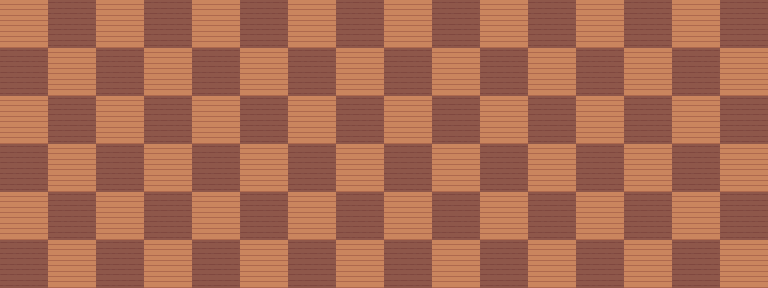
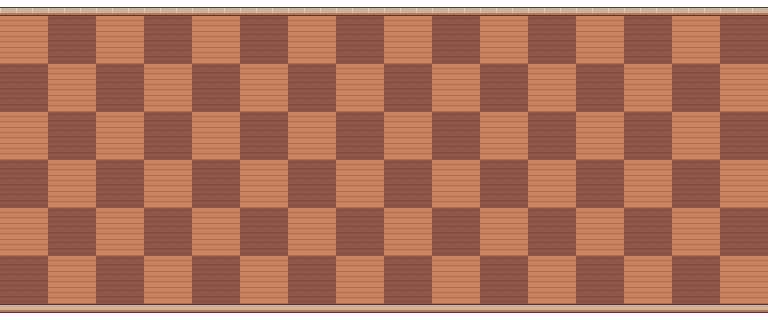
Graphics & components update

diff --git a/src/components/game/sprites/human/human-village.tsx b/src/components/game/sprites/human/human-village.tsx
@@ -2,6 +2,7 @@ import { villageHeight, villageWidth } from "@/game/assets";
 import { Assets, Texture } from "pixi.js";
 import { useEffect, useState } from "react";
 import type { VillageBuildings } from "../../types/village-buildings";
+import { HumanGoldMine } from "./human-gold-mine";
 import { HumanTownhall } from "./human-townhall";
 
 export const HumanVillage = ({
@@ -10,14 +11,19 @@ export const HumanVillage = ({
   buildings,
 }: { x: number; y: number; buildings: VillageBuildings }) => {
   const [bgTexture, setBgTexture] = useState(Texture.EMPTY);
+  const [fenceTexture, setFenceTexture] = useState(Texture.EMPTY);
 
   useEffect(() => {
-    Promise.all([Assets.load<Texture>("/assets/Human_village.png")]).then(
-      ([bg]) => {
-        setBgTexture(bg);
-      },
-    );
-  }, []);
+    Promise.all([
+      Assets.load<Texture>("/assets/human/Human_village__Ground.png"),
+      Assets.load<Texture>(
+        `/assets/human/fence/Human_village__Fence_lv${buildings.townHall.lvl}.png`,
+      ),
+    ]).then(([bg, fence]) => {
+      setBgTexture(bg);
+      setFenceTexture(fence);
+    });
+  }, [buildings.townHall.lvl]);
 
   return (
     <>
@@ -28,8 +34,49 @@ export const HumanVillage = ({
         width={villageWidth}
         height={villageHeight}
       />
+      <pixiSprite
+        texture={fenceTexture}
+        x={x}
+        y={y}
+        width={villageWidth}
+        height={villageHeight}
+      />
 
-      <HumanTownhall x={x + 290} y={y + 190} lvl={buildings.townHall.lvl} />
+      <HumanGoldMine
+        x={x + 125}
+        y={y + 180}
+        lvl={buildings.goldMines.gm1.lvl}
+      />
+      {buildings.goldMines.gm2 && (
+        <HumanGoldMine
+          x={x + 125}
+          y={y + 50}
+          lvl={buildings.goldMines.gm2.lvl}
+        />
+      )}
+      {buildings.goldMines.gm3 && (
+        <HumanGoldMine
+          x={x + 125}
+          y={y + 310}
+          lvl={buildings.goldMines.gm3.lvl}
+        />
+      )}
+      {buildings.goldMines.gm4 && (
+        <HumanGoldMine
+          x={x + 10}
+          y={y + 120}
+          lvl={buildings.goldMines.gm4.lvl}
+        />
+      )}
+      {buildings.goldMines.gm5 && (
+        <HumanGoldMine
+          x={x + 10}
+          y={y + 240}
+          lvl={buildings.goldMines.gm5.lvl}
+        />
+      )}
+
+      <HumanTownhall x={x + 290} y={y + 180} lvl={buildings.townHall.lvl} />
     </>
   );
 };

diff --git a/src/components/game/sprites/scene.tsx b/src/components/game/sprites/scene.tsx
@@ -3,7 +3,7 @@ import type { BridgeBoard, BridgeRow } from "../types/bridge";
 import type { VillageBuildings } from "../types/village-buildings";
 import { Bridge } from "./Bridge";
 import { HumanVillage } from "./human/human-village";
-import { OrkVillage } from "./ork-village";
+import { OrkVillage } from "./ork/ork-village";
 
 const row: BridgeRow = {
   c1: "empty",
@@ -34,17 +34,25 @@ const board: BridgeBoard = {
 
 const humanVillageBuildings: VillageBuildings = {
   townHall: {
-    lvl: 6,
+    lvl: 1,
     damage: 0,
   },
   goldMines: {
     gm1: {
       lvl: 1,
     },
-    gm2: null,
-    gm3: null,
-    gm4: null,
-    gm5: null,
+    gm2: {
+      lvl: 2,
+    },
+    gm3: {
+      lvl: 3,
+    },
+    gm4: {
+      lvl: 4,
+    },
+    gm5: {
+      lvl: 5,
+    },
   },
   barracks: {
     b1: {
@@ -70,7 +78,7 @@ export const Scene = () => {
   return (
     <>
       <HumanVillage x={0} y={0} buildings={humanVillageBuildings} />
-      <Bridge x={villageWidth} y={96} board={board} />
+      <Bridge x={villageWidth} y={89} board={board} />
       <OrkVillage x={villageWidth + bridgeWidth} y={0} />
     </>
   );

diff --git a/src/components/game/sprites/ork/ork-village.tsx b/src/components/game/sprites/ork/ork-village.tsx
@@ -1,6 +1,7 @@
 import { villageHeight, villageWidth } from "@/game/assets";
 import { Assets, Texture } from "pixi.js";
 import { useEffect, useState } from "react";
+import { OrkTownhall } from "./ork-townhall";
 
 export const OrkVillage = ({ x, y }: { x: number; y: number }) => {
   const [bgTexture, setBgTexture] = useState(Texture.EMPTY);
@@ -14,12 +15,16 @@ export const OrkVillage = ({ x, y }: { x: number; y: number }) => {
   }, []);
 
   return (
-    <pixiSprite
-      texture={bgTexture}
-      x={x}
-      y={y}
-      width={villageWidth}
-      height={villageHeight}
-    />
+    <>
+      <pixiSprite
+        texture={bgTexture}
+        x={x}
+        y={y}
+        width={villageWidth}
+        height={villageHeight}
+      />
+
+      <OrkTownhall x={x + 390} y={y + 180} lvl={2} />
+    </>
   );
 };

diff --git a/src/components/game/sprites/human/human-gold-mine.tsx b/src/components/game/sprites/human/human-gold-mine.tsx
@@ -1,7 +1,7 @@
 import { Assets, Texture } from "pixi.js";
 import { useEffect, useState } from "react";
 
-export const HumanTownhall = ({
+export const HumanGoldMine = ({
   x,
   y,
   lvl,
@@ -9,7 +9,7 @@ export const HumanTownhall = ({
   const [bgTexture, setBgTexture] = useState(Texture.EMPTY);
 
   useEffect(() => {
-    Promise.all([Assets.load(`/assets/human/townhalls/${lvl}.webp`)]).then(
+    Promise.all([Assets.load(`/assets/human/gold-mines/${lvl}.webp`)]).then(
       ([bg]) => {
         setBgTexture(bg);
       },

diff --git a/src/components/game/sprites/ork/ork-townhall.tsx b/src/components/game/sprites/ork/ork-townhall.tsx
@@ -1,7 +1,7 @@
 import { Assets, Texture } from "pixi.js";
 import { useEffect, useState } from "react";
 
-export const HumanTownhall = ({
+export const OrkTownhall = ({
   x,
   y,
   lvl,
@@ -9,7 +9,7 @@ export const HumanTownhall = ({
   const [bgTexture, setBgTexture] = useState(Texture.EMPTY);
 
   useEffect(() => {
-    Promise.all([Assets.load(`/assets/human/townhalls/${lvl}.webp`)]).then(
+    Promise.all([Assets.load(`/assets/ork/townhalls/${lvl}.webp`)]).then(
       ([bg]) => {
         setBgTexture(bg);
       },

diff --git a/index.html b/index.html
@@ -7,11 +7,11 @@
     <meta name="theme-color" content="#000000" />
     <meta
       name="description"
-      content="Web site created using create-tsrouter-app"
+      content="Self-playing, on-chain strategy game where your predictions shape the future"
     />
     <link rel="apple-touch-icon" href="/logo192.png" />
     <link rel="manifest" href="/manifest.json" />
-    <title>Create TanStack App - prediction-village-front</title>
+    <title>Prediction Village</title>
   </head>
   <body>
     <div id="app"></div>

diff --git a/src/game/assets.ts b/src/game/assets.ts
@@ -1,5 +1,5 @@
 export const villageWidth = 784;
-export const villageHeight = 464;
+export const villageHeight = 480;
 
 export const bridgeWidth = 768;
-export const bridgeHeight = 288;
+export const bridgeHeight = 320;
